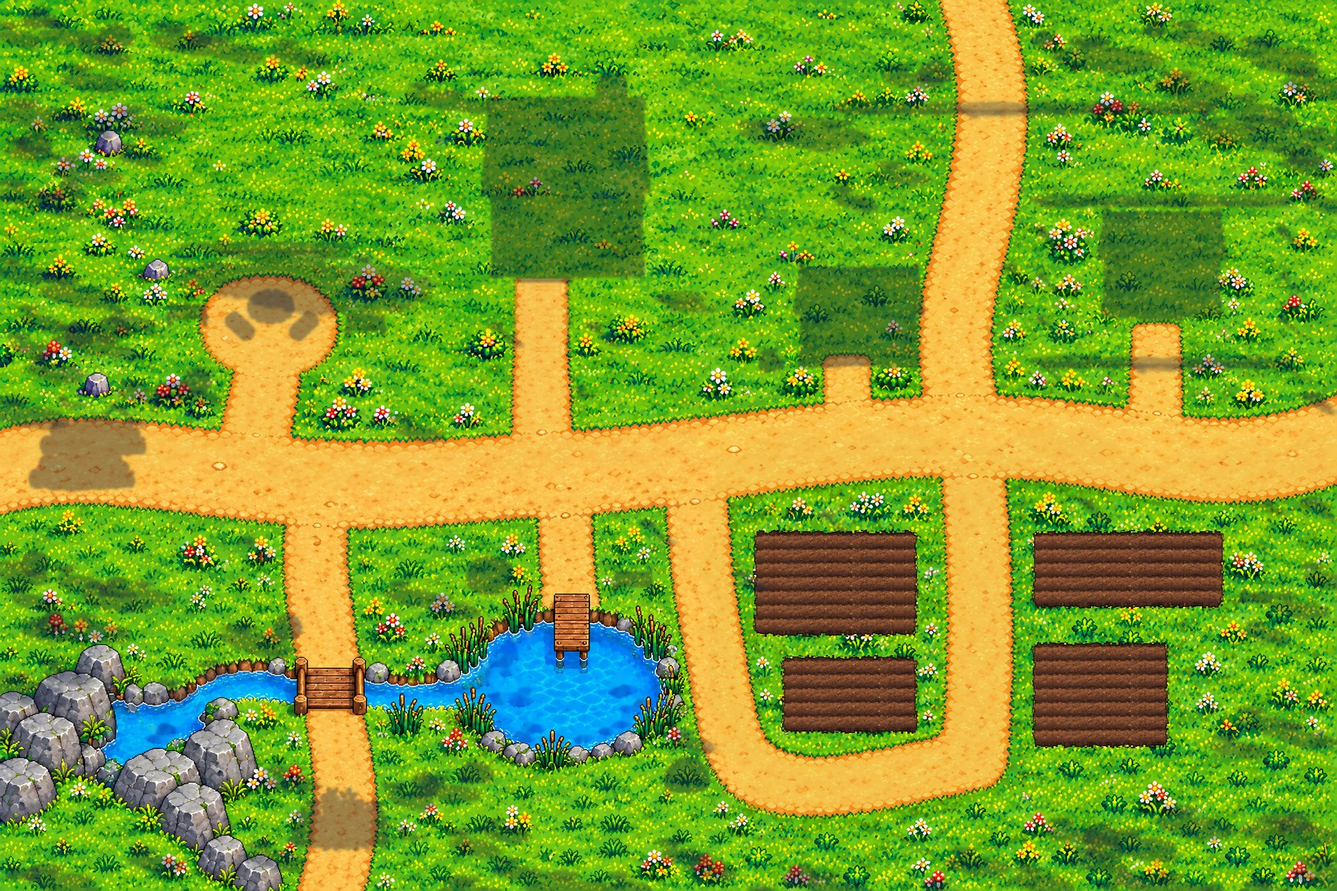
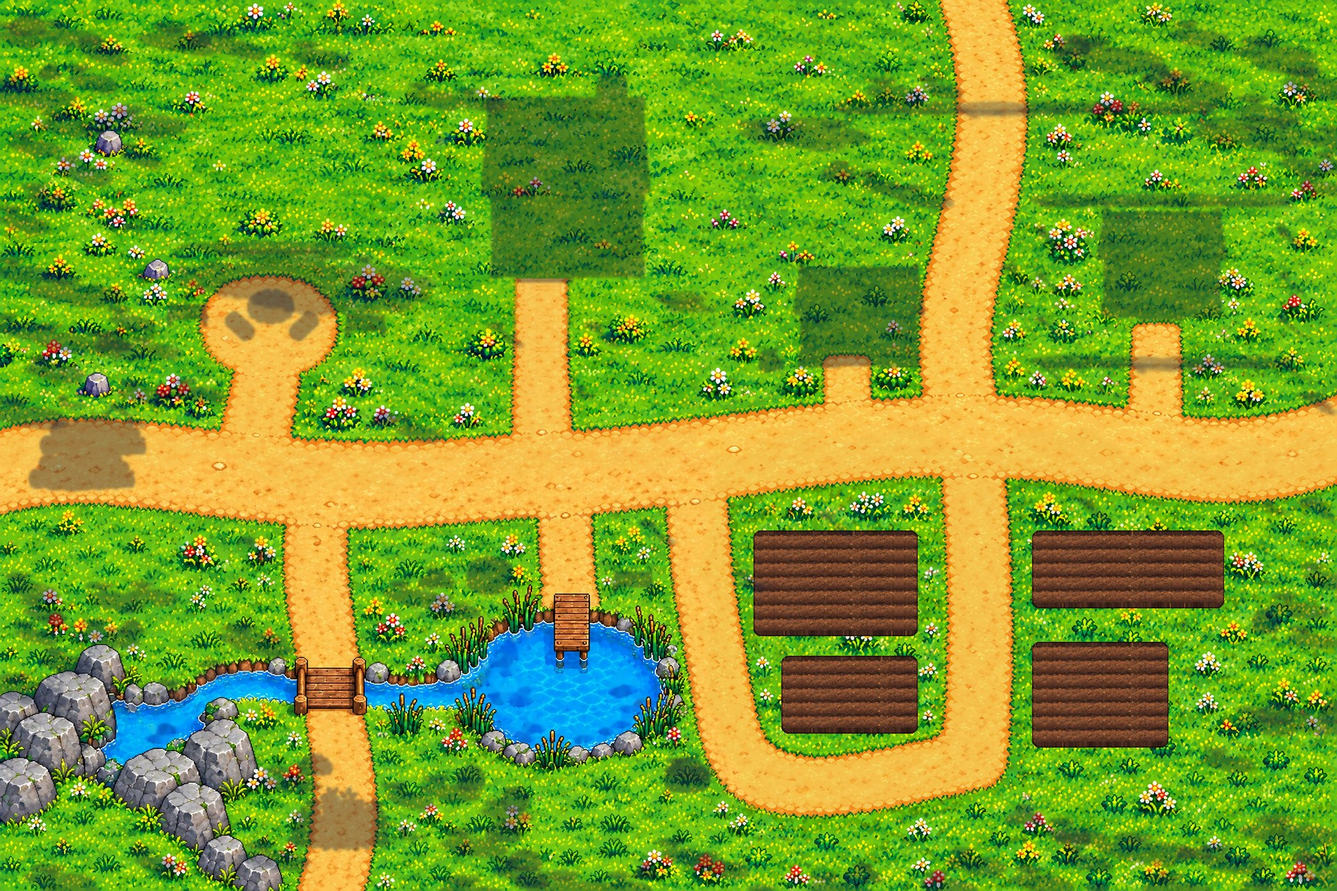
1.16: walk up first then open (crate, shed, mailbox, NPCs), clean gold outline on tappable things instead of twinkles, planting cells as clear blocks, easy fishing for everyone, engine's leaning shadows off on the assembled scene (they doubled shadows and hid the moving water), gate leaves no longer

diff --git a/index.html b/index.html
@@ -121,7 +121,7 @@ window.DEFER_Q=[];window.DEFER_ON=true;window.DEFER_DONE=new Set();
 
 // ===== Lantern Academy (LA) · index.html · formerly "Leah พาเพลิน 2D" =====
 // Files are loaded by name. If a file is missing the game draws a simple stand-in and keeps running.
-const VERSION='Lantern Academy 1.15';
+const VERSION='Lantern Academy 1.16';
 const T=32;
 const FILES={laLogo:'logo.png',ground:'tiles-village.png',cliff:'tiles-cliff.png',water:'tiles-water.png',cobble:'tiles-cobble.png',cave:'tiles-cave.png',
   props:'props-village.png',mprops:'props-mountain.png',cprops:'props-cave.png',dprops:'props-dungeon.png',farm:'props-farm.png',
@@ -901,11 +901,11 @@ const FISHING={on:false,st:'idle',t:0,fish:0,hold:false,zy:40,zv:0,fy:60,fv:0,ft
 function fishArt(i){const c=FISH[i][6];return pix(20,12,g=>{g.fillStyle=c;g.fillRect(3,3,12,6);g.fillRect(5,2,8,8);g.fillRect(15,2,3,8);g.fillStyle='rgba(255,255,255,.5)';g.fillRect(5,3,6,1);g.fillStyle='#1b1330';g.fillRect(5,5,1,1)})}
 function fishNear(){return M&&M.fishSpot&&Math.hypot(P.x-M.fishSpot.x,P.y-M.fishSpot.y)<30}
 function fishAct(){if(!FISHING.on){if(!fishNear())return;FISHING.on=true;FISHING.st='idle'}const F=FISHING;
-  if(F.st==='idle'){F.st='wait';F.t=(1.5+Math.random()*3.5)*(typeof fishWaitMul==='function'?fishWaitMul():1);F.fish=rollFish();sfx('shoot');say(t('wait'))}
-  else if(F.st==='bite'){if(isKid())catchFish();else{F.st='reel';F.prog=.25;F.zy=50;F.zv=0;F.fy=60;F.fv=0;say(t('reelTip'))}}
+  if(F.st==='idle'){F.st='wait';F.t=(1.5+Math.random()*3.5)*(typeof fishWaitMul==='function'?fishWaitMul():1);F.fish=rollFish();sfx('shoot');say(t('fishHow'))}
+  else if(F.st==='bite'){if(isKid()||!S.reelFish)catchFish();else{F.st='reel';F.prog=.25;F.zy=50;F.zv=0;F.fy=60;F.fv=0;say(t('reelTip'))}}
   else if(F.st==='wait'){F.st='idle';say(t('lost'))}}
 function fishUpdate(dt){const F=FISHING;if(!F.on)return;if(!fishNear()){F.on=false;F.st='idle';return}F.t-=dt;
-  if(F.st==='wait'&&F.t<=0){F.st='bite';F.t=(isKid()?1.4:.9)*(typeof fishBiteMul==='function'?fishBiteMul():1);sfx('warp');say('❗ '+t('bite'))}
+  if(F.st==='wait'&&F.t<=0){F.st='bite';F.t=(isKid()?2:1.5)*(typeof fishBiteMul==='function'?fishBiteMul():1);sfx('warp');say('❗ '+t('bite'))}
   else if(F.st==='bite'&&F.t<=0){F.st='idle';say(t('lost'))}
   else if(F.st==='reel'){const H=120,zh=36-FISH[F.fish][0]*3,diff=1+FISH[F.fish][0]*.6;F.zv+=(F.hold?-300:240)*dt;F.zy+=F.zv*dt;if(F.zy<0){F.zy=0;F.zv*=-.3}if(F.zy>H-zh){F.zy=H-zh;F.zv*=-.3}
     F.ft-=dt;if(F.ft<=0){F.ft=.35+Math.random()*(1.1-FISH[F.fish][0]*.15);F.ftg=4+Math.random()*H*.72}const want=(F.ftg??60)-F.fy;F.fv+=(Math.sign(want)*90*diff-F.fv*1.5)*dt;F.fy+=F.fv*dt;if(F.fy<4){F.fy=4;F.fv=Math.abs(F.fv)}if(F.fy>H-4){F.fy=H-4;F.fv=-Math.abs(F.fv)}
@@ -1208,9 +1208,9 @@ cv.addEventListener('pointerdown',e=>{if(DIG&&!DIG.done){digHit();return}if(PAUS
   const mo=MONS.find(o=>!o.happy&&Math.abs(o.x-wx)<(o.w||26)/2+8&&wy>o.y-(o.h||22)-8&&wy<o.y+8);if(mo){attackTarget(mo);return}
   if(M.board&&Math.abs(M.board.x-wx)<24&&wy>M.board.y-60&&wy<M.board.y+8){openBoard();return}
   if(M.kind==='room'&&!M.visiting&&!DEC.on){const f=M.objs.find(o=>o.fu&&FURN_ACT[o.fu.k]&&Math.abs(o.x-wx)<26&&wy>o.y-56&&wy<o.y+8);if(f){furnAct(f.fu.k);return}}
-  if(M.mailbox&&Math.hypot(M.mailbox.x-wx,M.mailbox.y-10-wy)<20){if(Net.online)openVisit();else say(t('nobody'));return}
+  if(M.mailbox&&Math.hypot(M.mailbox.x-wx,M.mailbox.y-10-wy)<20){g9WalkThen(M.mailbox.x,M.mailbox.y+22,()=>{if(Net.online)openVisit();else say(t('nobody'))});return}
   const pl=(M.plots||[]).find(p=>Math.abs(p.x-wx)<16&&Math.abs(p.y-8-wy)<16);if(pl){P.act={k:'plot',o:pl};P.target=null;P.path=findPath(M,P.x,P.y,pl.x,pl.y+18);return}
-  const np=(M.npcs||[]).find(n=>Math.abs(n.x-wx)<16&&wy>n.y-56&&wy<n.y+6);if(np){if(np.npc==='dad'&&!isKid()&&S.lv>=10&&!(reqBase().done.dad===undefined&&reqInfo('dad').got>=10)){if(!reqBase().done.dad){openReq('dad');const x=$('mBody');if(x)x.insertAdjacentHTML('beforeend',`<p><button id="toJobs">⚔ ${t('jobs')}</button></p>`);if($('toJobs'))$('toJobs').onclick=openJobs;return}openJobs();return}if(np.npc==='nuan'){openShop();speak(t('s_nuan').split('…')[0]);return}if(['leah','dad','mom'].includes(np.npc)&&openReq(np.npc))return;say(t('n_'+np.npc)+': '+t('s_'+np.npc));speak(t('s_'+np.npc));msgT=5;P.path=findPath(M,P.x,P.y,np.x,np.y+22);return}
+  const np=(M.npcs||[]).find(n=>Math.abs(n.x-wx)<16&&wy>n.y-56&&wy<n.y+6);if(np){if(Math.hypot(P.x-np.x,P.y-(np.y+22))>50&&performance.now()-(window._g9Retap||0)>400){const nx=np.x,ny=np.y;g9WalkThen(nx,ny+22,()=>{window._g9Retap=performance.now();const rr=cv.getBoundingClientRect(),dq=devicePixelRatio||1;cv.dispatchEvent(new PointerEvent('pointerdown',{clientX:(nx-camX)*SC/dq+rr.left,clientY:(ny-20-camY)*SC/dq+rr.top,pointerId:1,bubbles:true}))});return}if(np.npc==='dad'&&!isKid()&&S.lv>=10&&!(reqBase().done.dad===undefined&&reqInfo('dad').got>=10)){if(!reqBase().done.dad){openReq('dad');const x=$('mBody');if(x)x.insertAdjacentHTML('beforeend',`<p><button id="toJobs">⚔ ${t('jobs')}</button></p>`);if($('toJobs'))$('toJobs').onclick=openJobs;return}openJobs();return}if(np.npc==='nuan'){openShop();speak(t('s_nuan').split('…')[0]);return}if(['leah','dad','mom'].includes(np.npc)&&openReq(np.npc))return;say(t('n_'+np.npc)+': '+t('s_'+np.npc));speak(t('s_'+np.npc));msgT=5;P.path=findPath(M,P.x,P.y,np.x,np.y+22);return}
   const c=(M.crystals||[]).find(c=>!c.awake&&Math.hypot(c.x-wx,c.y-10-wy)<22&&lit(c.x,c.y));if(c){P.act={k:'crystal',o:c};P.target=null;P.path=findPath(M,P.x,P.y,c.x,c.y+14);return}
   const d=(M.digs||[]).find(d=>!d.done&&Math.hypot(d.x-wx,d.y-wy)<20);if(d){P.act={k:'dig',o:d};P.target=null;P.path=findPath(M,P.x,P.y,d.x,d.y);return}
   P.target=null;P.act=null;P.path=findPath(M,P.x,P.y,wx,wy);HOLD={id:e.pointerId,cx:e.clientX,cy:e.clientY,t:performance.now()}});
@@ -1240,7 +1240,7 @@ function update(dt){if(!M||!S)return;if(msgT>0){msgT-=dt;if(msgT<=0)$('msg').sty
       if(d>R){P.retarget=(P.retarget||0)-dt;if(!P.path||P.retarget<=0){P.path=findPath(M,P.x,P.y,o.x,o.y);P.retarget=.35}}else{P.path=null;P.row=rowFor(o.x-P.x,o.y-P.y);if(P.cd<=0)doAttack(o)}}}
     if(!mx&&!my&&P.path&&P.path.length){const [tx,ty]=P.path[0],dx=tx-P.x,dy=ty-P.y,d=Math.hypot(dx,dy);if(d<3){P.path.shift()}else{mx=dx/d;my=dy/d}}
     P.moving=!!(mx||my);if(P.moving){const n=Math.hypot(mx,my);mx/=n;my/=n;const wet=inPool(),sp=(isKid()?106:111)*dt*(wet?.65:1)*(effOn('dash')?1.3:1)*(effOn('frozen')?.5:1)*(1+buffV('spd')/100),nx=P.x+mx*sp,ny=P.y+my*sp;if(!blockedAt(M,nx,P.y))P.x=nx;if(!blockedAt(M,P.x,ny))P.y=ny;P.dist+=sp;P.row=rowFor(mx,my)}
-    if(P.act&&(!P.path||!P.path.length)){const o=P.act.o;if(Math.hypot(o.x-P.x,o.y+14-P.y)<30){if(P.act.k==='crystal')openQuiz(o);else if(P.act.k==='plot')plotAct(o);else if(!o.done)doDig(o)}P.act=null}}
+    if(P.act&&(!P.path||!P.path.length)){const o=P.act.o;if(Math.hypot(o.x-P.x,o.y+14-P.y)<(P.act.k==='tap'?72:30)){if(P.act.k==='crystal')openQuiz(o);else if(P.act.k==='plot')plotAct(o);else if(P.act.k==='tap'){try{o.fn()}catch(e){}}else if(!o.done)doDig(o)}P.act=null}}
   // things you walk into
   if(!PAUSE&&!P.dead){for(const e of M.exits)if(exitCool<=0&&Math.hypot(P.x-e.x,P.y-e.y)<13&&!(e.needBoss&&!S.boss)&&!(e.lockBoss&&M.boss&&!M.boss.happy)){exitCool=1.2;if(e.locked){say(t(e.msg||'soon'));const dx=M.w*T/2-e.x,dy=M.h*T/2-e.y,d=Math.hypot(dx,dy);P.x+=dx/d*18;P.y+=dy/d*18;P.path=null}else useExit(e);break}
     for(const s of M.stones){if(Math.hypot(P.x-s.x,P.y-s.y-10)<70){if(!S.stones.includes(s.id)){S.stones.push(s.id);s.awake=true;s.t=performance.now()/1000;say(t('stoneOn'));save()}S.lastStone=s.id}}
@@ -1305,7 +1305,7 @@ function render(tm){if(!M||!S)return;
   for(const s of M.stairs||[]){const x=Math.round(s.x-camX-18),y=Math.round(s.y-camY-26);for(let i=0;i<4;i++){const yy=s.up?y+i*7:y+21-i*7;ctx.fillStyle=['#7a4a26','#8a5a30','#9a6a3a','#aa7a44'][i];ctx.fillRect(x+i*2,yy,36-i*4,6);ctx.fillStyle='rgba(40,20,10,.5)';ctx.fillRect(x+i*2,yy+6,36-i*4,1)}ctx.fillStyle='#5a3418';ctx.fillRect(x-2,y-2,3,32);ctx.fillRect(x+35,y-2,3,32)}
   for(const q of M.zones||[])label((q.x0+q.x1+1)/2*T-camX,(q.y0+q.y1)/2*T-camY,t(q.k));if(M.pool)label(8.5*T-camX,15*T-camY-6,t('pool'));if(M.mailbox&&Math.hypot(P.x-M.mailbox.x,P.y-M.mailbox.y)<90)label(M.mailbox.x-camX,M.mailbox.y-camY-(M.g9b?58:30),t('mailbox'));
   if(M.bath)label((M.bath.x0+M.bath.x1+1)/2*T-camX,(M.bath.y0+M.bath.y1)/2*T-camY,'🛁 '+t('bathroom'));
-  for(const p of M.plots||[]){const q=plotState(p),x=Math.round(p.x-camX),y=Math.round(p.y-camY);if(M.g9b){if(q.w){ctx.fillStyle='rgba(34,20,9,.36)';ctx.beginPath();ctx.ellipse(x,y,14,6,0,0,7);ctx.fill()}if(q.st==='empty'){ctx.fillStyle='rgba(30,17,8,.6)';ctx.beginPath();ctx.ellipse(x,y,5,2.5,0,0,7);ctx.fill();ctx.fillStyle='rgba(190,140,90,.55)';ctx.fillRect(x-4,y+2,8,1)}}
+  for(const p of M.plots||[]){const q=plotState(p),x=Math.round(p.x-camX),y=Math.round(p.y-camY);if(M.g9b){const cp=G9B&&G9B.cellPic,cr=cp&&G9B.rects[cp[q.w?1:0]];if(cr&&IMG.g9bA)ctx.drawImage(IMG.g9bA,cr[0],cr[1],cr[2],cr[3],x-(cr[2]>>1),y-(cr[3]>>1)+1,cr[2],cr[3]);else if(q.w){ctx.fillStyle='rgba(34,20,9,.36)';ctx.beginPath();ctx.ellipse(x,y,14,6,0,0,7);ctx.fill()}}
     else{ctx.fillStyle=q.w?'#4a3322':'#6b4a2e';ctx.fillRect(x-13,y-8,26,16);ctx.fillStyle=q.w?'#3a2618':'#5a3c24';for(let r=0;r<3;r++)ctx.fillRect(x-11,y-6+r*5,22,1)}
     if(q.st!=='empty'&&drawCropArt(q,x,y)){}else if(q.st==='seed'){ctx.fillStyle='#e8d6a0';for(let i=0;i<4;i++)ctx.fillRect(x-8+i*5,y-2+(i%2),2,1)}else if(q.st==='sprout'||q.st==='ripe'){const r=FR[q.st==='ripe'?CROPS[q.crop].bed:'sproutBed'];if(IMG.farm)ctx.drawImage(IMG.farm,r[0],r[1],32,32,x-16,y-22,32,32)}
     if(q.st!=='empty'&&q.st!=='ripe'&&!q.w){ctx.fillStyle='#8fd8ff';ctx.fillRect(x-1,y-26+Math.round(Math.sin(tm*4)),3,4);ctx.fillRect(x,y-28+Math.round(Math.sin(tm*4)),1,2)}
@@ -2562,7 +2562,7 @@ let FARM_ACT=null;{const _up18=update;update=function(dt){const r=_up18.apply(th
 // taps on the farm: wild land, the robot shed (farm panel)
 function ensureFarmTap(){if(window._farmTap)return;const cv=document.getElementById('c');if(!cv)return;window._farmTap=1;cv.addEventListener('pointerup',ev=>{try{if(!M||M.id!=='farm'||PAUSE||DLG)return;const r=cv.getBoundingClientRect(),dpr=devicePixelRatio||1,wx=(ev.clientX-r.left)*dpr/SC+camX,wy=(ev.clientY-r.top)*dpr/SC+camY;
   const w=(M.wild||[]).find(o=>Math.abs(o.x-wx)<18&&wy>o.y-30&&wy<o.y+6);if(w){ev.stopImmediatePropagation();window._farmTapT=performance.now();P.act=null;FARM_ACT=w;w._retry=0;P.target=null;const best=farmAdj(w);P.path=best?findPath(M,P.x,P.y,best[0],best[1]):null;return}
-  if(M.shed&&Math.abs(M.shed.x-wx)<60&&wy>M.shed.y-80&&wy<M.shed.y+10){ev.stopImmediatePropagation();window._farmTapT=performance.now();openFarmPanel()}}catch(e){}},true);
+  if(M.shed&&Math.abs(M.shed.x-wx)<60&&wy>M.shed.y-80&&wy<M.shed.y+10){ev.stopImmediatePropagation();window._farmTapT=performance.now();g9WalkThen(M.shed.x,M.shed.y+12,openFarmPanel)}}catch(e){}},true);
   // the same tap also arrives as a click: keep the game from treating it as "walk here"
   cv.addEventListener('click',ev=>{if(window._farmTapT&&performance.now()-window._farmTapT<600){ev.stopImmediatePropagation();ev.preventDefault()}},true)}
 // the free tile next to a wild object that is closest to the player
@@ -3541,6 +3541,7 @@ let G9B=null;
   for(const [p,x,by,fl,sw] of G9B.inst){const r=G9B.rects[p];m.objs.push({img:SH[r[4]],sx:r[0],sy:r[1],sw:r[2],sh:r[3],x:x+r[2]/2,y:by,tall:1,cs:0,flip:fl?1:0,g9b:1,swA:sw|0,ph:(x*.37+by*.11)%6.283})}
   if(G9B.gate&&G9B.gate.inst&&G9B.gate.inst.length===2){const Gt=G9B.gate,Lf=m.objs[Gt.inst[0]],Rt=m.objs[Gt.inst[1]];for(const [x,y] of Gt.tiles)m.SOLID.delete(key(x,y));   // the gate is never a wall: it swings open as you come up to it
     m._gate={L:Lf,R:Rt,xl:Lf.x-Lf.sw/2,xr:Rt.x+Rt.sw/2,shut:[Lf.sx,Lf.sy,Lf.sw,Lf.sh,Lf.img],open:false,cx:(Gt.x0+Gt.x1)/2,cy:Gt.y}}
+  try{for(const [nm,ix] of Object.entries(G9B.tapInst||{}))if(ix>=0&&m.objs[ix])g9bOutlined(m.objs[ix],'_g9bTap_'+nm)}catch(e){}
   m.exits.push({id:'e',x:m.w*T-14,y:G9.exitE[1]*T,to:'capital',toExit:'w',label:'capital'});
   for(const [id,L] of Object.entries(G9.locks)){const side=id==='w';[-1.2,0,1.2].forEach((o,i)=>m.exits.push({id:id+(i===1?'':i),x:(L.at[0]+(side?0:o))*T,y:(L.at[1]+(side?o:0))*T,to:'farm',toExit:'e',locked:1,msg:L.msg,label:L.msg}))}
   const ho=g9HouseObj();if(ho)m.objs.push(ho);g9HouseSolid(m);
@@ -3585,15 +3586,24 @@ function g9bWater(tm){const W=M._w;if(!W||!W.ready||tm-W.at<.08)return;W.at=tm;c
   for(const q of W.gl){const a=Math.pow(Math.max(0,Math.sin(tm*q.sp+q.ph)),3)*.75;if(a>.02){g.fillStyle='rgba(255,255,255,'+a.toFixed(3)+')';g.fillRect(Math.round(q.x+Math.sin(tm*.3+q.ph)*2),Math.round(q.y),3,1)}}
   const sheet=IMG.g9bA;if(sheet)for(const p of W.pads)g.drawImage(sheet,p.r[0],p.r[1],p.r[2],p.r[3],Math.round(p.x+Math.cos(tm*p.sp*.62+p.ph)*.6*p.amp),Math.round(p.y+Math.sin(tm*p.sp+p.ph)*1.1*p.amp),p.r[2],p.r[3])}
 // the yard gate: shut from afar, both leaves swing open as someone walks up, and shut again behind them
-function g9bGate(){const G=M._gate;if(!G||!P)return;const d=Math.hypot(P.x-G.cx,P.y-8-G.cy),want=G.open?d<96:d<70;if(want===G.open)return;G.open=want;const r=want?G9B.rects[G9B.gate.open]:null,SH=['g9bA','g9bB'];
-  for(const o of [G.L,G.R]){if(want){o.sx=r[0];o.sy=r[1];o.sw=r[2];o.sh=r[3];o.img=SH[r[4]]}else{o.sx=G.shut[0];o.sy=G.shut[1];o.sw=G.shut[2];o.sh=G.shut[3];o.img=G.shut[4]}o.cb=o.sh-1}
+function g9bGate(){const G=M._gate;if(!G||!P)return;const d=Math.hypot(P.x-G.cx,P.y-8-G.cy),want=G.open?d<96:d<70;if(want===G.open)return;G.open=want;const gc=want?g9bGateOpenPic():null;
+  for(const o of [G.L,G.R]){if(want){o.sx=0;o.sy=0;o.sw=gc.width;o.sh=gc.height;o.img='_g9bGateO'}else{o.sx=G.shut[0];o.sy=G.shut[1];o.sw=G.shut[2];o.sh=G.shut[3];o.img=G.shut[4]}o.cb=o.sh-1}
   G.L.x=G.xl+G.L.sw/2;G.R.x=G.xr-G.R.sw/2;try{sfx('pick')}catch(e){}}
 // things you can tap twinkle; walk up to one and a small sign with its picture pops up above it
-function g9bMarks(tm){const A=M._taps||(M._taps=[M.crate&&{x:M.crate.x,y:M.crate.y-42,by:M.crate.y,ic:'\u{1FA99}'},M.shed&&{x:M.shed.x,y:M.shed.y-96,by:M.shed.y,ic:'\u{1F9F0}'},M.mailbox&&{x:M.mailbox.x,y:M.mailbox.y-50,by:M.mailbox.y,ic:''},M.fishSpot&&{x:M.fishSpot.x,y:M.fishSpot.y-40,by:M.fishSpot.y,ic:'\u{1F3A3}'}].filter(Boolean));
-  for(let i=0;i<A.length;i++){const a=A[i],x=a.x-camX,y=a.y-camY;if(x<-30||y<-30||x>VW+30||y>VH+30)continue;
-    for(let s2=0;s2<2;s2++){const al=Math.pow(Math.max(0,Math.sin(tm*2.6+i*1.9+s2*2.4)),2);if(al<.05)continue;const sx=Math.round(x+(s2?11:-12)),sy=Math.round(y+(s2?-6:3)),rr=s2?2:3;ctx.fillStyle='rgba(255,226,120,'+al.toFixed(2)+')';ctx.fillRect(sx-rr,sy,rr*2+1,1);ctx.fillRect(sx,sy-rr,1,rr*2+1);ctx.fillStyle='rgba(255,255,255,'+al.toFixed(2)+')';ctx.fillRect(sx,sy,1,1)}
-    if(a.ic&&P&&Math.hypot(P.x-a.x,P.y-a.by)<84){const yy=Math.round(y-16+Math.sin(tm*3)*1.5);ctx.fillStyle='rgba(27,19,48,.92)';ctx.fillRect(Math.round(x)-9,yy-9,18,17);ctx.fillStyle='#e8c46a';ctx.fillRect(Math.round(x)-9,yy+8,18,1);ctx.fillRect(Math.round(x)-9,yy-10,18,1);
-      ctx.save();ctx.font='11px system-ui,sans-serif';ctx.textAlign='center';ctx.textBaseline='middle';ctx.fillText(a.ic,Math.round(x),yy);ctx.restore()}}}
+function g9bMarks(tm){const A=M._taps||(M._taps=[M.crate&&{x:M.crate.x,y:M.crate.y-46,by:M.crate.y,ic:'\u{1FA99}'},M.shed&&{x:M.shed.x,y:M.shed.y-172,by:M.shed.y,ic:'\u{1F9F0}'}].filter(Boolean));
+  for(const a of A){if(!P||Math.hypot(P.x-a.x,P.y-a.by)>=84)continue;const x=a.x-camX,yy=Math.round(a.y-camY-8+Math.sin(tm*3)*1.5);ctx.fillStyle='rgba(27,19,48,.92)';ctx.fillRect(Math.round(x)-9,yy-9,18,17);ctx.fillStyle='#e8c46a';ctx.fillRect(Math.round(x)-9,yy+8,18,1);ctx.fillRect(Math.round(x)-9,yy-10,18,1);
+    ctx.save();ctx.font='11px system-ui,sans-serif';ctx.textAlign='center';ctx.textBaseline='middle';ctx.fillText(a.ic,Math.round(x),yy);ctx.restore()}}
+function g9bOutlined(o,name){const im=IMG[o.img];if(!im)return;const pad=2,c=document.createElement('canvas');c.width=o.sw+pad*2;c.height=o.sh+pad*2;const g=c.getContext('2d'),m=document.createElement('canvas');m.width=o.sw;m.height=o.sh;const mg=m.getContext('2d');
+  mg.drawImage(im,o.sx,o.sy,o.sw,o.sh,0,0,o.sw,o.sh);mg.globalCompositeOperation='source-in';mg.fillStyle='#ffe27a';mg.fillRect(0,0,o.sw,o.sh);
+  for(const [dx,dy] of [[-2,0],[2,0],[0,-2],[0,2],[-1,-1],[1,-1],[-1,1],[1,1],[-2,-1],[2,-1],[-2,1],[2,1],[-1,-2],[1,-2],[-1,2],[1,2]])g.drawImage(m,pad+dx,pad+dy);
+  g.drawImage(im,o.sx,o.sy,o.sw,o.sh,pad,pad,o.sw,o.sh);IMG[name]=c;o.img=name;o.sx=0;o.sy=0;o.sw+=pad*2;o.sh+=pad*2;o.y+=pad}
+function g9bGateOpenPic(){if(IMG._g9bGateO)return IMG._g9bGateO;const r=G9B.rects[G9B.gate.open],im=IMG.g9bA,c=document.createElement('canvas');c.width=30;c.height=r[3];const g=c.getContext('2d');g.imageSmoothingEnabled=false;g.drawImage(im,r[0],r[1],13,r[3],0,0,13,r[3]);g.drawImage(im,r[0]+13,r[1],r[2]-13,r[3],13,0,17,r[3]);IMG._g9bGateO=c;return c}
+// walk up to a thing first; what it does (a panel, a talk) opens only on arrival. Already next to it, or no way there: it opens at once.
+function g9WalkThen(x,y,fn){if(!P||!M)return;try{HOLD=null}catch(e){}   /* the tap that got us here never reaches the window's pointerup (the farm handlers stop it), so 'finger still down' must be cleared here or the player is dragged to the finger and the walk is dropped */
+  if(Math.hypot(P.x-x,P.y-y)<46){fn();return}let pa=null;try{pa=findPath(M,P.x,P.y,x,y)}catch(e){}if(!pa||!pa.length){fn();return}P.act={k:'tap',o:{x,y:y-14,fn}};P.target=null;P.path=pa}
+// the assembled scene brings its own soft shadows in the ground picture: the engine's leaning shadows are not added on top (they doubled every shadow and hid the moving water)
+{const _bs16=bakeShadows;bakeShadows=function(m){if(m&&m.g9b&&m.ground){m.shadow=m.ground;m.shadowSC=SC;return}return _bs16.apply(this,arguments)}}
+try{Object.assign(TX.th,{fishHow:'เหวี่ยงเบ็ดแล้ว รอจนเห็น ❗ แล้วกดปุ่มอีกครั้งทันที'});if(TX.en)Object.assign(TX.en,{fishHow:'Line is out. Wait for ❗ then press the button again right away'})}catch(e){}
 {const _dv14=drawVFX2;drawVFX2=function(tm){_dv14.apply(this,arguments);try{if(M&&M.g9b&&G9B){g9bGate();g9bConv(tm);g9bMarks(tm);if(!LITE){g9bWaterInit();g9bWater(tm)}}}catch(e){}}}
 // ================= 1.15 FARM ART · crops that grow in four steps + the energy converter as a real picture (farm-art.png) =================
 // One small sheet. If it is missing, everything is drawn the old way (32-px crop tiles, the converter in code). Rows on the sheet: carrot, lettuce, tomato, corn, pumpkin;
@@ -3687,7 +3697,7 @@ function openCrate(){const h=HOME.get(),rows=crateRows(h);
   modal('<h2>📦 '+t('crate')+'</h2>'+(rows.length?'<div style="max-height:56vh;overflow:auto">'+rows.map(r=>'<div class="pn" style="display:flex;align-items:center;gap:8px;margin:6px 0"><div style="flex:1;font-size:16px">'+(r.cry?'✨ ':'🧺 ')+t('cr_'+r.k)+(r.cry?t('cryCrop'):'')+' ×'+r.n+' <span style="opacity:.8">· '+r.p+' 🪙</span></div><button data-cs="'+r.k+':'+r.cry+':0" style="min-height:40px">'+t('sell1')+'</button><button data-cs="'+r.k+':'+r.cry+':1" style="min-height:40px">'+t('sellAll')+' +'+(r.n*r.p)+'</button></div>').join('')+'</div><p class="note" style="font-size:14px">'+t('crateTip')+'</p>':'<p class="note" style="font-size:16px">'+t('crateEmpty')+'</p>'));
   document.querySelectorAll('[data-cs]').forEach(b=>b.onclick=()=>{const [k,c,a]=b.dataset.cs.split(':');const g=crateSell(k,c==='1',a==='1');if(g)say('📦 '+t('crateSold')+' +'+g+' 🪙');openCrate()})}
 {const cv=document.getElementById('c');if(cv)cv.addEventListener('pointerup',ev=>{try{if(!M||!M.crate||PAUSE||DLG)return;const r=cv.getBoundingClientRect(),dpr=devicePixelRatio||1,wx=(ev.clientX-r.left)*dpr/SC+camX,wy=(ev.clientY-r.top)*dpr/SC+camY;
-    if(Math.abs(M.crate.x-wx)<40&&wy>M.crate.y-64&&wy<M.crate.y+8){ev.stopImmediatePropagation();window._farmTapT=performance.now();openCrate()}}catch(e){}},true)}
+    if(Math.abs(M.crate.x-wx)<40&&wy>M.crate.y-64&&wy<M.crate.y+8){ev.stopImmediatePropagation();window._farmTapT=performance.now();g9WalkThen(M.crate.x,M.crate.y+22,openCrate)}}catch(e){}},true)}
 // CRYSTAL CROPS: a harvest by hand has a small chance to also give one glowing crystal crop
 const CRY_CHANCE=.05;
 {const _paC=plotAct;plotAct=function(p){let crop=null;try{const q=plotState(p),Q=HOME.get().plots[p.i];if(Q&&q.st==='ripe')crop=Q.crop}catch(e){}const r=_paC.apply(this,arguments);

diff --git a/test_114_life.js b/test_114_life.js
@@ -19,8 +19,19 @@ const R=await pg.evaluate(async()=>{const o={version:VERSION,newScene:!!G9B,lite
   o.water.waterPointsChanged=[ch.size,pts.length];o.water.bankPointsInsideBoxChanged=[chL.size,land.length];
   let ok=0,smp=0,inw=0;for(let k=0;k<8;k++){if(g9bFish(W,performance.now()/1000))ok++}o.water.fishSpawned=[ok,8];
   const ds=[];for(let i=0;i<1;i++)ds.push(0);await sleep(1200);for(const f of W.fish){if(f.x===undefined)continue;smp++;if(g9bInWater(W,f.x,f.y))inw++}o.water.fishInWater=[inw,smp]}
+ // ---- is the moving water really on the SCREEN (not only in the map's ground picture)? and does a tapped thing wait until the player has walked up to it? ----
+ {const cvs=document.getElementById('c'),sx=cvs.getContext('2d');P.x=G9.fish[0]*T+10;P.y=(G9.fish[1]-2.6)*T;P.path=null;if(M._w){M._w.next=1e9;M._w.fish.length=0}await sleep(2500);
+  const pts=G9B.water.deep.filter((q,i)=>i%3===0).map(([x,y])=>[Math.round((x-camX)*SC),Math.round((y-camY)*SC)]).filter(([x,y])=>x>4&&y>4&&x<cvs.width-4&&y<cvs.height-4);
+  const snap=()=>pts.map(([x,y])=>Array.from(sx.getImageData(x,y,1,1).data).join());const s0=snap(),ch=new Set();for(let k=0;k<6;k++){await sleep(300);snap().forEach((v,i)=>{if(v!==s0[i])ch.add(i)})}
+  o.onScreen={waterPointsOnScreen:pts.length,changed:ch.size,groundIsWhatIsDrawn:M.shadow===M.ground};
+  try{DLG=null;PAUSE=false}catch(e){}                                  // the welcome talk pauses walking: close it first
+  let opened=0;P.x=M.crate.x+220;P.y=M.crate.y+60;P.path=null;await sleep(300);g9WalkThen(M.crate.x,M.crate.y+22,()=>{opened=performance.now()});const t0=performance.now();o.walkFirst={openedAtOnceFromFar:opened>0,walking:!!(P.path&&P.path.length)};
+  for(let k=0;k<40&&!opened;k++)await sleep(250);o.walkFirst.openedAfterMs=opened?Math.round(opened-t0):null;o.walkFirst.distanceWhenOpened=opened?Math.round(Math.hypot(P.x-M.crate.x,P.y-(M.crate.y+22))):null;
+  let near=0;g9WalkThen(M.crate.x,M.crate.y+22,()=>{near=1});o.walkFirst.opensAtOnceWhenNear=!!near;
+  o.outlined=Object.entries(G9B.tapInst||{}).map(([k,ix])=>k+':'+(M.objs[ix]&&/^_g9bTap_/.test(M.objs[ix].img)));
+  o.cells=!!(G9B.cellPic&&G9B.rects[G9B.cellPic[0]]);FISHING.on=false;P.x=M.fishSpot.x;P.y=M.fishSpot.y;await sleep(300);fishAct();const st1=FISHING.st;FISHING.t=0;await sleep(400);const st2=FISHING.st;fishAct();o.fishing={afterCast:st1,thenBite:st2,afterSecondPress:FISHING.st,reelGame:FISHING.st==='reel'}}   // 'idle' after the second press = the fish is caught (the bag itself is capped, so its length cannot be compared)
  // ---- yard gate ----
- const G=M._gate;if(G){o.gate={tilesSolid:G9B.gate.tiles.map(([x,y])=>M.SOLID.has(key(x,y))),shutAtStart:!G.open};P.x=G.cx;P.y=G.cy+120;await sleep(500);o.gate.farAway=G.open;P.x=G.cx;P.y=G.cy+40;await sleep(500);o.gate.near=G.open;o.gate.leafPicWhenOpen=[G.L.sw,G.L.sh];
+ const G=M._gate;if(G){o.gate={tilesSolid:G9B.gate.tiles.map(([x,y])=>M.SOLID.has(key(x,y))),shutAtStart:!G.open};P.x=G.cx;P.y=G.cy+120;await sleep(500);o.gate.farAway=G.open;P.x=G.cx;P.y=G.cy+40;await sleep(500);o.gate.near=G.open;o.gate.leafPicWhenOpen=[G.L.sw,G.L.sh];o.gate.leavesCross=(G.L.x+G.L.sw/2)>(G.R.x-G.R.sw/2);
   try{const pa=findPath(M,G.cx,G.cy+60,G.cx,G.cy-50);o.gate.pathIntoYard=pa?pa.length:0}catch(e){o.gate.pathIntoYard='err'}
   P.x=G.cx;P.y=G.cy-60;await sleep(500);o.gate.insideYardNear=G.open;P.x=G.cx-10;P.y=G.cy-150;await sleep(500);o.gate.insideYardFar=G.open;P.x=G.cx;P.y=G.cy+160;await sleep(500);o.gate.backOutFar=G.open}
  // ---- tappable marks ----

diff --git a/sw.js b/sw.js
@@ -1,5 +1,5 @@
-// Lantern Academy 1.15 · Leah-PP service worker: network first (always newest when online), cache as backup when offline.
-const CACHE='lantern-v92';
+// Lantern Academy 1.16 · Leah-PP service worker: network first (always newest when online), cache as backup when offline.
+const CACHE='lantern-v93';
 const FILES=['./','index.html','manifest.json','questions-index.json','q-math-6.json','q-math-7.json','q-math-8.json','q-english-6.json','q-english-7.json','q-english-8.json','q-thai-6.json','q-thai-7.json','q-thai-8.json','q-chinese-6.json','q-chinese-7.json','q-chinese-8.json','q-general-6.json','q-general-7.json','q-general-8.json','leah-walk.png','leah-idle.png','dad-idle.png','mom-idle.png','peb-idle.png','nuan-idle.png','cave-floor.jpg','cave-wall.jpg','tiles-cave.png','tiles-village.png','tiles-hedge.png','obj-fountain.png','props-village.png','props-cave.png','props-dungeon.png','buildings-village.png','tiles-house.png','furniture.png','play.html','kid-curly2-idle.png','kid-curly2-stand.png','kid-curly2-walk.png','play.webmanifest','firebase-config.js','tiles-cliff.png','tiles-water.png','tiles-cobble.png','props-mountain.png','props-farm.png','obj-lightstone.png','obj-lightstone-plaza.png','obj-cave-crystal.png','obj-rockfall.png','obj-bridge-rope.png','obj-bridge-stone.png','obj-pier.png','obj-fountain-big.png','obj-fountain-old.png','capital-greybox.png','bld-academy.png','bld-lanna-house.png','bld-lanna-house2.png','bld-market-stall.png','obj-lantern-shrine.png','obj-bridge-arch.png','obj-stairs-stone.png','obj-pier-teak.png','kid-braids-idle.png','kid-braids-stand.png','kid-braids-walk.png','kid-ponytail-idle.png','kid-ponytail-stand.png','kid-ponytail-walk.png','kid-bob-idle.png','kid-bob-stand.png','kid-bob-walk.png','kid-curly-idle.png','kid-curly-stand.png','kid-curly-walk.png','kid-blond-idle.png','kid-blond-stand.png','kid-blond-walk.png','kid-spiky-idle.png','kid-spiky-stand.png','kid-spiky-walk.png','icon-192.png','icon-512.png','icon-maskable-512.png','apple-touch-icon.png','favicon-32.png','logo.png','title-art.jpg','farm-greybox.png','map-capital-a.jpg','obj-fountain-capa.png','map-capital-royal.jpg','obj-statue-capital.png','signs-capital.png','map-royal-plaza.jpg','signs-royal-plaza.png','map-cave-mouth.jpg','hunt-SW.jpg','hunt-NW.jpg','hunt-NE.jpg','hunt-SE.jpg','mon-slime.png','mon-bat.png','mon-mushbug.png','mon-golem.png','icons-drops.png','card-front.png','card-back.png','kit-town-buildings.png','kit-town-nature.png','kit-town.png','kit-town.json','tiles-town-meadow.png','tiles-town-water.png','portraits-town.png','crystal-paplern.png','stamps.png','farm-house-1.png','farm-house-2.png','farm-house-3.png','map-G9-home-farm.jpg','map-H9-village.jpg','objects-1.png','map-G9b-ground.jpg','g9b-sprites.png','g9b-plants.png','g9b-scene.json','farm-art.png'];
 self.addEventListener('install',e=>{self.skipWaiting();e.waitUntil(caches.open(CACHE).then(c=>Promise.all(FILES.map(f=>c.add(f).catch(()=>null)))));self.skipWaiting()});
 self.addEventListener('activate',e=>{e.waitUntil(self.clients.claim());e.waitUntil(caches.keys().then(ks=>Promise.all(ks.filter(k=>k!==CACHE).map(k=>caches.delete(k)))));self.clients.claim()});

diff --git a/test_116_walkfirst.js b/test_116_walkfirst.js
@@ -1,0 +1,16 @@
+// test_116_walkfirst.js — แตะของจากระยะไกลด้วยการแตะจอจริง: ตัวละครต้องเดินไปถึงก่อน แล้วหน้าต่างจึงเปิด (กล่องส่งขาย · โรงเก็บของ) · PORT=... CHROME_EXE=...
+const p=require('/home/claude/.npm-global/lib/node_modules/@mermaid-js/mermaid-cli/node_modules/puppeteer');
+(async()=>{const b=await p.launch({executablePath:process.env.CHROME_EXE||'/home/claude/.cache/puppeteer/chrome/linux-131.0.6778.204/chrome-linux64/chrome',args:['--no-sandbox']});
+const pg=await b.newPage();await pg.setViewport({width:844,height:390,isMobile:true,hasTouch:true,deviceScaleFactor:2});const errs=[];pg.on('pageerror',e=>errs.push(e.message));
+await pg.goto('http://localhost:'+(process.env.PORT||8775)+'/?gm',{waitUntil:'load'});await pg.evaluate(()=>localStorage.clear());await pg.reload({waitUntil:'load'});await new Promise(r=>setTimeout(r,6000));
+await pg.evaluate(async()=>{const sleep=ms=>new Promise(r=>setTimeout(r,ms));gmMakeSlot();const d=Store.all();S=d.slots[d.cur];startGame();await sleep(1500);document.querySelectorAll('#cr,#title,#picker').forEach(e=>e.classList.add('hide'));goMap('farm');await sleep(1200);
+ try{for(let i=0;i<10&&DLG;i++){if(typeof dlgNext==='function')dlgNext();else DLG=null;await sleep(120)}DLG=null;PAUSE=false}catch(e){}
+ window._op={};const _c=openCrate;openCrate=function(){window._op.crate=Math.round(Math.hypot(P.x-M.crate.x,P.y-M.crate.y));return _c.apply(this,arguments)};const _f=openFarmPanel;openFarmPanel=function(){window._op.shed=Math.round(Math.hypot(P.x-M.shed.x,P.y-M.shed.y));return _f.apply(this,arguments)}});
+const out=[];
+for(const [name,what,dx,dy,key] of [['crate, from the south','crate',-40,170,'crate'],['crate, from the west','crate',-220,30,'crate'],['shed, from the road','shed',60,190,'shed'],['crate, standing next to it','crate',0,26,'crate']]){
+ const c=await pg.evaluate(async(what,dx,dy)=>{const sleep=ms=>new Promise(r=>setTimeout(r,ms));try{document.querySelectorAll('.modal,#modal').forEach(e=>e.classList.add('hide'));PAUSE=false;DLG=null;HOLD=null}catch(e){}window._op={};const o=M[what];P.x=o.x+dx;P.y=o.y+dy;P.path=null;P.act=null;P.target=null;await sleep(1500);
+  const cv=document.getElementById('c'),r=cv.getBoundingClientRect(),dpr=devicePixelRatio||1,w=[o.x,o.y-(what==='shed'?40:14)];return [(w[0]-camX)*SC/dpr+r.left,(w[1]-camY)*SC/dpr+r.top,Math.round(Math.hypot(P.x-o.x,P.y-o.y))]},what,dx,dy);
+ await pg.touchscreen.tap(c[0],c[1]);await new Promise(r=>setTimeout(r,200));const at0=await pg.evaluate(k=>window._op[k]!==undefined,key);
+ let got=null;for(let k=0;k<24&&got===null;k++){await new Promise(r=>setTimeout(r,250));got=await pg.evaluate(k=>window._op[k]===undefined?null:window._op[k],key)}
+ out.push({case:name,tappedFromPx:c[2],openedAtOnce:at0,openedWhenPxAway:got})}
+console.log(JSON.stringify(out));console.log('errors',errs.length,errs.slice(0,3));await b.close()})();

diff --git a/compose_g9_full.py b/compose_g9_full.py
@@ -89,15 +89,29 @@ def make_plot(w, n_furrows):
             piece = soil if (x // sw) % 2 == 0 else soil[:, ::-1]; ww = min(sw, w - x); a[PTOP + r * FPER:PTOP + (r + 1) * FPER, x:x + ww] = piece[:, :ww]; x += sw
     a[:PTOP] = a[PTOP:PTOP + 1]; a[PTOP + soil_h:] = a[PTOP + soil_h - 1:PTOP + soil_h]
     # uneven edge: rounded corners + clumps of earth, in 3-px steps; then a darker rim, as freshly dug soil has
-    n = np.kron(np.random.RandomState(w * 7 + n_furrows).uniform(-1, 1, (h // 3 + 2, w // 3 + 2)), np.ones((3, 3)))[:h, :w]
     yy, xx = np.mgrid[:h, :w]; dx = np.minimum(xx, w - 1 - xx).astype(np.float32); dy = np.minimum(yy, h - 1 - yy).astype(np.float32)
-    corner = np.where((dx < 12) & (dy < 12), 12 - np.hypot(12 - dx, 12 - dy), np.minimum(dx, dy)); keep_ = corner + n * 2.6 > 3.0
+    corner = np.where((dx < 12) & (dy < 12), 12 - np.hypot(12 - dx, 12 - dy), np.minimum(dx, dy)); keep_ = corner > 1.5                      # smooth rounded edge
     a[..., 3] = np.where(keep_, 255, 0); edge = keep_ & ~(cv2.erode(keep_.astype(np.uint8), np.ones((5, 5), np.uint8)) > 0)
     a[..., :3] = np.where(edge[..., None], (a[..., :3] * 0.62).astype(np.uint8), a[..., :3]); return Image.fromarray(a, 'RGBA')
+def make_cell(w, h, wet):
+    soil = np.asarray(PLOT_IM.crop((30, FUR0, 30 + w, FUR0 + h))).astype(np.float32).copy(); soil[..., :3] *= (0.70 if wet else 1.16)
+    yy, xx = np.mgrid[:h, :w]; dx = np.minimum(xx, w - 1 - xx).astype(np.float32); dy = np.minimum(yy, h - 1 - yy).astype(np.float32); r = 6
+    c = np.where((dx < r) & (dy < r), r - np.hypot(r - dx, r - dy), np.minimum(dx, dy)); soil[..., 3] = np.where(c > 0.3, 255, 0)
+    rim = (c <= 2.2) & (c > 0.3); soil[..., :3] = np.where(rim[..., None], soil[..., :3] * 0.55, soil[..., :3])
+    hi = (c > 2.2) & (c <= 3.4) & (yy < h // 2); soil[..., :3] = np.where(hi[..., None], np.minimum(255, soil[..., :3] * 1.18), soil[..., :3])
+    return Image.fromarray(np.clip(soil, 0, 255).astype(np.uint8), 'RGBA')
+CELL_W, CELL_H = 50, 34
 PLOT_RECTS = []
 for k_, v in S['plots'].items():
     x0, y0, x1, y1 = v['rect']; n_f = max(3, int(round(((y1 - y0) * U - 16) / FPER))); pim = make_plot(int((x1 - x0) * U), n_f)
     FLAT.append((pim, int(x0 * U), int(y0 * U), 'plot')); PLOT_RECTS.append((int(x0 * U), int(y0 * U), pim.width, pim.height))
+    _px, _py, _pw, _ph = PLOT_RECTS[-1]; _r = np.random.RandomState(_px + _py)
+    tx_ = _px + 10
+    while tx_ < _px + _pw - 8: OB.append((_py + _ph + _r.uniform(1, 4), tx_, spr('grass', scale=float(_r.choice([0.55, 0.7, 0.82])), flip=_r.rand() < 0.5, tone='tuft'), 'tuft')); tx_ += _r.uniform(26, 52)
+    ty_ = _py + 26
+    while ty_ < _py + _ph - 4:
+        for sx_ in (_px + 1, _px + _pw - 1): OB.append((ty_ + _r.uniform(-4, 4), sx_ + _r.uniform(-2, 2), spr('grass', scale=float(_r.choice([0.55, 0.7])), flip=_r.rand() < 0.5, tone='tuft'), 'tuft'))
+        ty_ += _r.uniform(30, 48)
 # the round stone pad is the base of the energy converter; the machine has no picture yet, and a bare stone disc on the lawn explains nothing, so it is left out for now
 add('shed', *S['doors']['shed'], scale=0.85); add('hut', *S['doors']['friend_hut'])          # a shed is tapped, not entered: it may be smaller than a house
 bt = S['big_tree']; add('oak', bt[0], bt[1] + 1.7, h=274, tone='mid')
@@ -314,5 +328,6 @@ if len(sys.argv) > 3:
     level = lambda nm: 'high' if nm in ('treeA', 'treeB', 'treeC', 'clump', 'oak') else 'small' if nm in ('treeD', 'treeE', 'treeF') else 'mid' if nm.startswith('bush') or nm == 'thicket' else 'low'
     inst = [{'n': nm, 'lv': level(nm), 'r': rect[id(im)], 'x': int(bx - im.width / 2), 'y': int(by - im.height), 'by': int(by), 'f': [int(foot_of(im, nm)[0]), int(foot_of(im, nm)[1] - foot_of(im, nm)[0])], 'sh': 0 if nm in SMALL else 1, 'hz': LOW_H.get(nm, 0)}
             for by, bx, im, nm in sorted(OB, key=lambda o: o[0])]
+    make_cell(CELL_W, CELL_H, False).save(ex + '/cell.png'); make_cell(CELL_W, CELL_H, True).save(ex + '/cell_wet.png')
     json.dump({'w': W, 'h': H, 'inst': inst, 'plots': PLOT_RECTS, 'fper': FPER, 'ptop': PTOP, 'pside': PSIDE, 'door_x': DX * U, 'house_base': 10.15 * U}, open(ex + '/scene.json', 'w'))
     print(json.dumps({'export': ex, 'unique_sprites': len(order), 'instances': len(inst), 'atlas': list(atlas.size)}))

diff --git a/build_g9_game.py b/build_g9_game.py
@@ -54,6 +54,8 @@ for i in sc['inst']:
 for (px_, py_, pim) in PADS: pad_list.append([len(pics), px_, py_]); pics.append(pim); pic_name.append('pad')
 # the yard gate swung open (the two leaves use this picture, the right one mirrored)
 _O2 = Image.open('/home/claude/lib2/objects-2.png').convert('RGBA'); _P2 = json.load(open('/home/claude/lib2/objects-2.json')); _r = _P2['gate']; GATE_OPEN = len(pics); pics.append(_O2.crop((_r[0], _r[1], _r[0] + _r[2], _r[1] + _r[3]))); pic_name.append('gateOpen')
+CELLS = []
+for fn_ in ('cell.png', 'cell_wet.png'): CELLS.append(len(pics)); pics.append(Image.open(SRC + '/' + fn_).convert('RGBA')); pic_name.append('cell')
 # cleared-by-hand things on the wild plots, half size (the world is smaller than the old scene)
 O1 = Image.open('/home/claude/v108/objects-1.png').convert('RGBA'); P1 = json.load(open('/home/claude/v108/objects-1.json')); wild = {}
 for k in ('bush', 'rock', 'stump'):
@@ -152,6 +154,7 @@ P['grid'] = ''.join('1' if v else '0' for v in solid.reshape(-1))
 P['rects'] = rects; P['inst'] = [[i['p'], i['x'], i['by'], i['fl'], i['sw']] for i in inst]
 gi = [k for k, i in enumerate(inst) if i['n'] == 'gateShut']; gl = [inst[k] for k in gi]
 P['gate'] = {'inst': gi, 'open': GATE_OPEN, 'tiles': GATE_TILES, 'x0': min(i['x'] for i in gl), 'x1': max(i['x'] + i['w'] for i in gl), 'y': gl[0]['by']}
+P['cellPic'] = CELLS; P['tapInst'] = {n_: next((k for k, i in enumerate(inst) if i['n'] == n_), -1) for n_ in ('crate', 'mailbox', 'shed')}
 P['pads'] = pad_list; P['water'] = {'box': WBOX, 'clip': b64mask(clipm), 'wave': b64mask(wavem), 'deep': DEEP}
 json.dump(P, open(OUT + '/g9b-scene.json', 'w'), separators=(',', ':'))
 

diff --git a/HANDOFF_S13.md b/HANDOFF_S13.md
@@ -1,9 +1,11 @@
-# HANDOFF S13 — Lantern Academy (3 ต.ค. 2569 ดึก · เกมรุ่น 1.15)
+# HANDOFF S13 — Lantern Academy (3 ต.ค. 2569 ดึก · เกมรุ่น 1.16)
 
 อ่านต่อจาก `HANDOFF_S12.md` · ลำดับความสำคัญเอกสาร: `MAP_PIPELINE.md` > ไฟล์นี้ > `PHASE1_PLAN.md` > `MAP_SPEC_G9.md` > `MAP_SPEC_H9.md` > `STORY.md`
 
 ## สถานะ
 - เกม: https://phoneyjung.github.io/Leah-PP/ · โหมด GM: `?gm` · repo: https://github.com/phoneyjung/Leah-PP · อัปไฟล์: https://github.com/phoneyjung/Leah-PP/upload/main
+- **รุ่น 1.16 (แก้ตามที่เจ้าของเดินตรวจ 1.15):** แตะของหรือคนจากไกล ตัวละครเดินไปถึงก่อนแล้วจึงเปิด (`g9WalkThen` · กล่อง โรงเก็บของ ตู้จดหมาย และตัวละครในทุกฉาก) · ขอบทองเรียบรอบของที่กดได้แทนประกาย (วาดตอนสร้างฉาก ไม่อบลงไฟล์) · จุดปลูกเป็นบล็อกชัด ๆ (แห้ง/เปียก) · แปลงขอบมนเรียบ มีกอหญ้าทับขอบ · ตกปลาแบบง่ายทุกคน (เหวี่ยง → รอ ❗ → กดอีกครั้ง ได้ปลา · หน้าต่างกด 2 วิ เด็ก 1.5 วิ ผู้ใหญ่) · ประตูลานเปิดแล้วบานไม่ไขว้ · **ปิดเงาเอียงของเครื่องยนต์เกมในฉากแบบประกอบ** (`bakeShadows`): เดิมเงาซ้อนสองชั้น และเกมวาดสำเนาพื้นที่อบเงาไว้ ทำให้ **น้ำขยับของรุ่น 1.14–1.15 ไม่ขึ้นจอจริง** (ชุดทดสอบเดิมวัดผิดที่ ตอนนี้วัดจากจอ: เปลี่ยน 102 จาก 107 จุด) · พบและแก้: หลังแตะกล่อง/โรงเก็บของ เกมคิดว่านิ้วยังกดค้าง (HOLD ไม่ถูกล้าง) · ชุดทดสอบใหม่ `test_116_walkfirst.js` (แตะจอจริง 4 แบบ) · `test_110` ช่อง tapOpens เป็น false โดยตั้งใจ (ต้องเดินไปก่อน)
+- **เจ้าของตัดสิน 3 ต.ค. ดึก: ภาพพื้นปัจจุบันน่าจะไม่ผ่าน เพราะดอกไม้ในภาพพื้นใหญ่เกินสัดส่วน → วาดพื้นใหม่แบบไม่มีดอกไม้ (ดอกไม้เป็นชิ้นแยกขนาดถูกสัดส่วน) · ชุดแนบ `attach-G9-ground-noflowers.zip` + พรอมป์ส่งแล้ว รอภาพ 4 ชิ้น**
 - **รุ่น 1.15 (ภาพฟาร์มชุดใหม่ `farm-art.png` 94 KB · 32 ภาพ):** พืชผักโต 4 ระยะ (หว่าน → ต้นอ่อน → ต้นเล็ก → ครึ่งต้น → สุก) ใช้กับผักกาด แครอท มะเขือเทศ ฟักทอง · สตรอว์เบอร์รียังใช้ภาพเก่า (ไม่มีแถวในแผ่น) · แถวข้าวโพดมีภาพพร้อมแต่เกมยังไม่มีข้าวโพด (รอเจ้าของตัดสิน: เปลี่ยนสตรอว์เบอร์รีเป็นข้าวโพดตามสเปก หรือวาดแถวสตรอว์เบอร์รีเพิ่ม) · เครื่องแปลงพลังงานเป็นภาพจริง 2 สถานะ ยืนในฉาก ชนได้ · ไฟล์หายแล้ววาดแบบเดิม · ต้นฉบับ: `art-crops.png` `art-converter.png` · ชุดทดสอบ `test_115_farmart.js` · หมายเหตุ: `test_106` ช่อง convTileFree จะเป็น false เพราะช่องของเครื่องแปลงตั้งใจให้ชนได้แล้ว (การเติมตะเกียงยังผ่าน 0.8)
 - **รุ่น 1.14 (ฉากมีชีวิตเข้าเกมแล้ว):** ลม 3 ระดับ (พุ่ม 1 · ต้นเล็ก 2 · ต้นใหญ่ 3 พิกเซล) · น้ำขยับ ใบบัว 15 กลุ่มลอย เงาปลา ประกายน้ำ (วาดลงภาพพื้นของแผนที่ราว 12 ครั้งต่อวินาที) · ประตูลานเพื่อนมอนเปิดเมื่อเดินเข้าใกล้ ปิดเมื่อเดินห่าง เดินผ่านได้ · ประกายบนของที่กดได้ 4 จุด + ป้ายไอคอนเมื่อเข้าใกล้ (กล่อง โรงเก็บของ ท่าตกปลา) · ทั้งหมดปิดเองในโหมดเครื่องช้า (LITE) · ชุดทดสอบ `test_114_life.js` · **ยังไม่ได้ย้ายเข้าเกม:** เงาสดตามเวลา/อากาศ หิมะ (เกมยังใช้เงาที่อบในภาพพื้น) · ปุ่มเดียวเปลี่ยนตามสิ่งที่อยู่ใกล้ · ต้นไม้จางเมื่อเดินไปหลังต้น · ป้ายอัปเกรดบ้านยังกดไม่ได้ (ไม่มีโค้ดรองรับ จึงไม่ใส่ประกาย)
 - **รุ่น 1.13 (แก้ตามที่เจ้าของเดินตรวจ 1.12):** ตกน้ำข้างสะพานไม่ได้แล้ว · แปลงผักเป็นผืนดินไถไม่มีกรอบ จุดปลูกเป็นหลุมเล็ก · เอาขอบทองรอบกล่อง/ป้าย/ตู้จดหมายออก · ป้ายชื่อตู้จดหมายอยู่เหนือตู้ · เงาอาคารไม่มีแถบใต้ผนังหน้า · ปิดโคมลอยในฉากนี้ · ค้าง: ภาพเครื่องแปลงพลังงาน (เกมยังวาดเป็นคริสตัลบนแท่น เจ้าของถามว่าคืออะไร) · ภาพพืชผลแบบมีระยะโต (พรอมป์ส่งแล้ว รอคำตอบว่าแผ่นตัวอย่างที่เจ้าของแนบมาใช้ได้เลยไหม) · สัญญาณของที่กดได้
